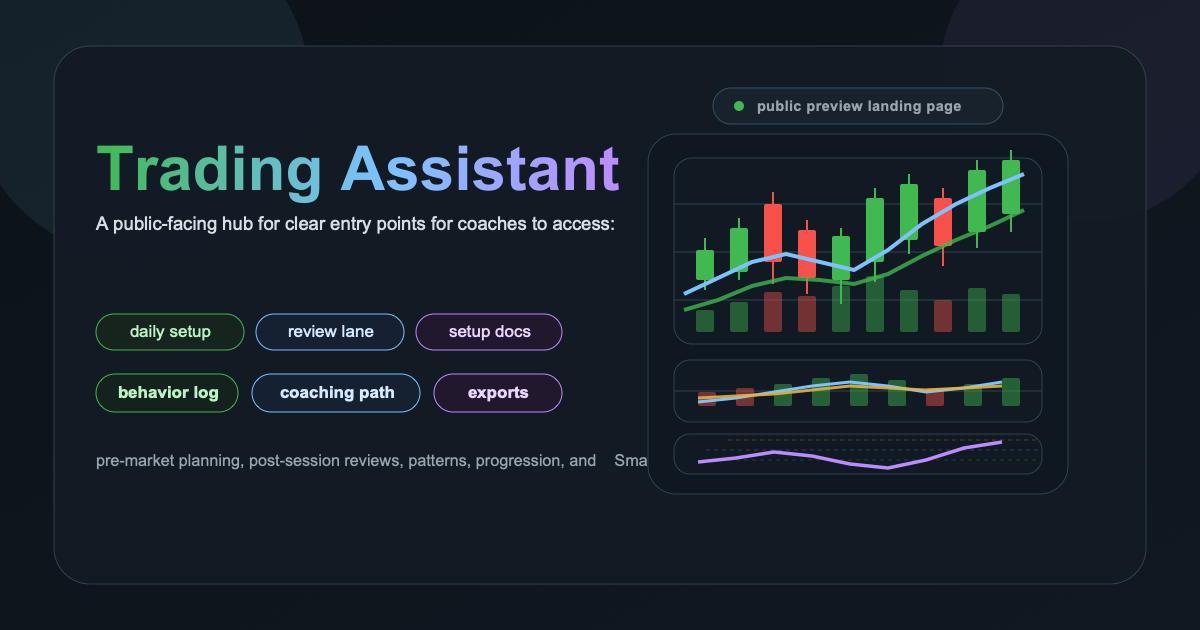
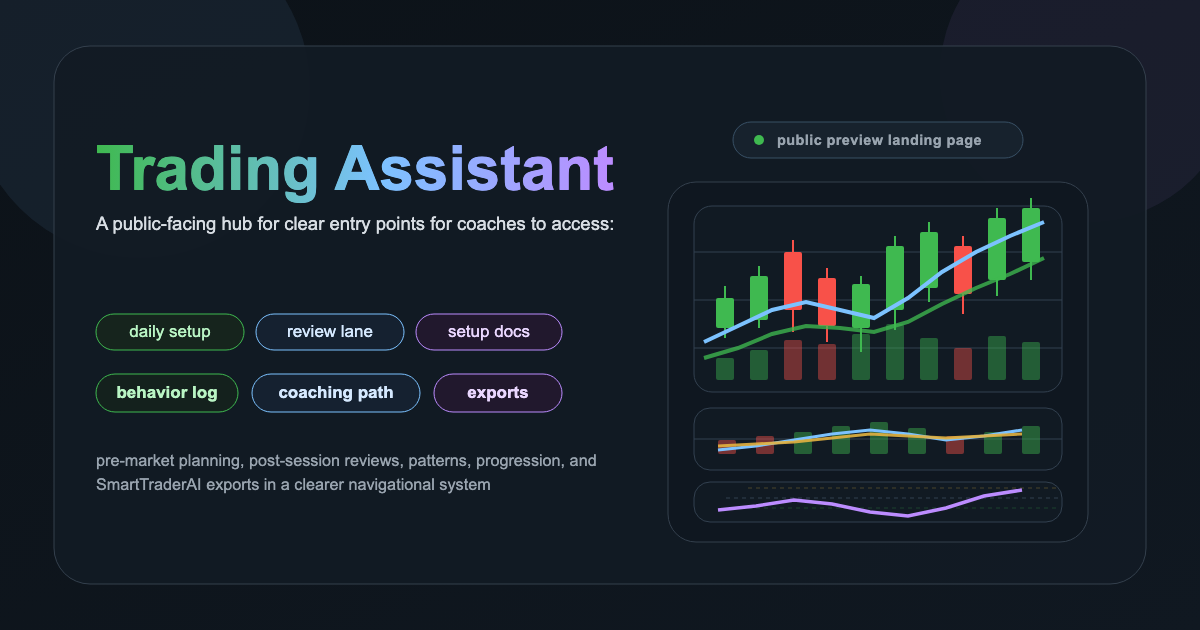
Release verified Wave 48-50 package

diff --git a/index.html b/index.html
@@ -729,12 +729,12 @@
           <span class="path-chip">smarttrader-ai/reviews/pattern_tracker.md</span>
         </a>
 
-        <a class="action-card" href="https://github.com/drasticstatic/trading-assistant-public-preview/tree/main/data/inevitrade%20progression" target="_blank" rel="noreferrer">
+        <a class="action-card" href="https://github.com/drasticstatic/trading-assistant-public-preview/tree/main/data/progression/inevitrade" target="_blank" rel="noreferrer">
           <div class="action-topline"><span>Coaching path</span><span>🎓</span></div>
           <span class="action-icon" aria-hidden="true">📘</span>
           <p class="action-title">Inevitrade Progression</p>
           <p class="action-desc">Coaching progression notes and public references.</p>
-          <span class="path-chip">data/inevitrade progression/</span>
+          <span class="path-chip">data/progression/inevitrade/</span>
         </a>
 
         <a class="action-card" href="https://github.com/drasticstatic/trading-assistant-public-preview/tree/main/setup" target="_blank" rel="noreferrer">
@@ -797,7 +797,7 @@
           <div class="tree-indent3"><a class="tree-leaf" href="https://github.com/drasticstatic/trading-assistant-public-preview/tree/main/smarttrader-ai/exports/2026/03-Mar" target="_blank" rel="noreferrer">03-Mar/</a></div>
           <div><a class="tree-dir" href="https://github.com/drasticstatic/trading-assistant-public-preview/tree/main/data" target="_blank" rel="noreferrer">data/</a> <span class="tree-note">— Public references, screenshots, and progression notes.</span></div>
           <div class="tree-indent"><a class="tree-leaf" href="https://github.com/drasticstatic/trading-assistant-public-preview/tree/main/data/screenshots" target="_blank" rel="noreferrer">screenshots/</a></div>
-          <div class="tree-indent"><a class="tree-leaf" href="https://github.com/drasticstatic/trading-assistant-public-preview/tree/main/data/inevitrade%20progression" target="_blank" rel="noreferrer">inevitrade progression/</a></div>
+          <div class="tree-indent"><a class="tree-leaf" href="https://github.com/drasticstatic/trading-assistant-public-preview/tree/main/data/progression/inevitrade" target="_blank" rel="noreferrer">progression/inevitrade/</a></div>
           <div class="tree-indent"><a class="tree-leaf" href="https://github.com/drasticstatic/trading-assistant-public-preview/tree/main/data/imports" target="_blank" rel="noreferrer">imports/</a></div>
           <div><a class="tree-dir" href="https://github.com/drasticstatic/trading-assistant-public-preview/tree/main/setup" target="_blank" rel="noreferrer">setup/</a> <span class="tree-note">— Public system documentation.</span></div>
           <div class="tree-indent"><a class="tree-leaf" href="https://github.com/drasticstatic/trading-assistant-public-preview/blob/main/setup/system-overview.md" target="_blank" rel="noreferrer">system-overview.md</a></div>

diff --git a/404.html b/404.html
@@ -997,12 +997,12 @@
           </div>
         </a>
 
-        <a class="action-card recovery-priority" href="https://github.com/drasticstatic/trading-assistant-public-preview/tree/main/data/inevitrade%20progression" target="_blank" rel="noreferrer">
+        <a class="action-card recovery-priority" href="https://github.com/drasticstatic/trading-assistant-public-preview/tree/main/data/progression/inevitrade" target="_blank" rel="noreferrer">
           <span class="action-icon" aria-hidden="true">🎓</span>
           <div class="action-content">
             <p class="action-title">Inevitrade Progression</p>
             <p class="action-desc">Coaching progression notes and supporting public reference material.</p>
-            <span class="path-chip">data/inevitrade progression/</span>
+            <span class="path-chip">data/progression/inevitrade/</span>
           </div>
         </a>
 
@@ -1043,7 +1043,7 @@
 
         <div><a class="tree-dir" href="https://github.com/drasticstatic/trading-assistant-public-preview/tree/main/data" target="_blank" rel="noreferrer">data/</a> <span class="tree-note">— Public datasets, screenshots, and progression references.</span></div>
         <div class="tree-indent"><a class="tree-leaf" href="https://github.com/drasticstatic/trading-assistant-public-preview/tree/main/data/screenshots" target="_blank" rel="noreferrer">screenshots/</a></div>
-        <div class="tree-indent"><a class="tree-leaf" href="https://github.com/drasticstatic/trading-assistant-public-preview/tree/main/data/inevitrade%20progression" target="_blank" rel="noreferrer">inevitrade progression/</a></div>
+        <div class="tree-indent"><a class="tree-leaf" href="https://github.com/drasticstatic/trading-assistant-public-preview/tree/main/data/progression/inevitrade" target="_blank" rel="noreferrer">progression/inevitrade/</a></div>
         <div class="tree-indent"><a class="tree-leaf" href="https://github.com/drasticstatic/trading-assistant-public-preview/tree/main/data/imports" target="_blank" rel="noreferrer">imports/</a></div>
 
         <div><a class="tree-dir" href="https://github.com/drasticstatic/trading-assistant-public-preview/tree/main/setup" target="_blank" rel="noreferrer">setup/</a> <span class="tree-note">— Public-facing system documentation</span></div>

diff --git a/404_legacy.html b/404_legacy.html
@@ -447,7 +447,7 @@
       <div class="tree-indent3"><a href="https://github.com/drasticstatic/trading-assistant-public-preview/tree/main/smarttrader-ai/exports/2026/03-Mar" target="_blank">03-Mar/</a> &nbsp;<span style="color:var(--subtle)">— Mar daily reviews</span></div>
       <div><a class="tree-dir" href="https://github.com/drasticstatic/trading-assistant-public-preview/tree/main/data" target="_blank">data/</a></div>
       <div class="tree-indent"><a href="https://github.com/drasticstatic/trading-assistant-public-preview/tree/main/data/screenshots" target="_blank">screenshots/</a> &nbsp;<span style="color:var(--subtle)">— all chart screenshots</span></div>
-      <div class="tree-indent"><a href="https://github.com/drasticstatic/trading-assistant-public-preview/tree/main/data/inevitrade%20progression" target="_blank">inevitrade progression/</a> &nbsp;<span style="color:var(--subtle)">— coaching progression notes</span></div>
+      <div class="tree-indent"><a href="https://github.com/drasticstatic/trading-assistant-public-preview/tree/main/data/progression/inevitrade" target="_blank">progression/inevitrade/</a> &nbsp;<span style="color:var(--subtle)">— coaching progression notes</span></div>
       <div class="tree-indent"><a href="https://github.com/drasticstatic/trading-assistant-public-preview/tree/main/data/exports" target="_blank">exports/</a> &nbsp;<span style="color:var(--subtle)">— TradeZella + Tradovate CSVs</span></div>
       <div><a class="tree-dir" href="https://github.com/drasticstatic/trading-assistant-public-preview/tree/main/setup" target="_blank">setup/</a></div>
       <div class="tree-indent"><a href="https://github.com/drasticstatic/trading-assistant-public-preview/blob/main/setup/system-overview.md" target="_blank">system-overview.md</a> &nbsp;<span style="color:var(--subtle)">— full system architecture</span></div>

diff --git a/setup/AugmentArchitecture.html b/setup/AugmentArchitecture.html
@@ -17,7 +17,7 @@
   <meta property="og:image:secure_url" content="https://drasticstatic.github.io/trading-assistant-public-preview/setup/aug-arch-preview.png?v=20260308-embed2">
   <meta property="og:image:type" content="image/png">
   <meta property="og:image:width" content="1200">
-  <meta property="og:image:height" content="720">
+  <meta property="og:image:height" content="630">
   <meta property="og:image:alt" content="Augment Architecture field guide preview with centered title lines, four surface cards, and a blue-green-purple divider accent.">
   <meta name="twitter:card" content="summary_large_image">
   <meta name="twitter:title" content="Augment Architecture — Field Guide, Not a Mystery Box">

diff --git a/data/progression/inevitrade/inner-circle-workbook.md b/data/progression/inevitrade/inner-circle-workbook.md
@@ -1,0 +1,235 @@
+# 📘 Inevitrade Inner Circle Bootcamp Workbook
+### Christopher Wilson | Cohort Feb 2026
+*Living document — updated as course progresses*
+
+---
+
+## 📋 Pre-Bootcamp Prerequisites
+
+- [x] Watch ALL lessons inside the Inner Circle Whop
+- [x] Download & share Readiness Progression Tracker
+- [x] Choose journaling tool (Readiness Progression Notion + TradeZella)
+- [x] Download & add ALL Premium Indicators via Whop
+
+---
+
+# 🗓 WEEK 1 — Setup, Market Fit & Personalization
+
+## 📖 Class 1A — Onboarding & Direction
+
+**Pre-Class Checklist:**
+- [x] TradingView (Essential or greater)
+- [x] Discord ready
+- [x] Readiness Progression Journal created & shared
+- [x] Excel tools from course downloaded
+
+**Objectives:**
+- Understand the 4-week journey
+- Clarify personal trading direction
+- Choose the right market (time, capital, personality)
+- Set income goals & expectations
+- Verify tools and access
+
+### ✏ Check-on-Learning
+
+> **What market fits your lifestyle best?**
+> 👉 Futures & crypto
+
+> **What is your biggest obstacle in becoming consistent?**
+> 👉 Fear of losing more
+
+> **What is your realistic income goal for the next 6–12 months?**
+> 👉 $10K / month
+
+---
+
+## 📖 Class 1B — Mindset & Performance Readiness
+
+**Objectives:**
+- Identify emotional tendencies that sabotage trading
+- Build pre-trading routines
+- Develop recovery mindset
+
+### ✏ Check-on-Learning
+
+> **What emotions sabotage your trading?**
+> 👉 FOMO & fear of loss
+
+> **What mindset concept hit hardest?**
+> 👉 Trading success has less to do with my skill and more to do with my recovery
+
+> **What will you change about your pre-trading routine?**
+> 👉 Work to forgive myself and let go of the past
+
+> **What concept will you be most susceptible to?**
+> 👉 Fear of loss — moving my SL to breathe mid-trade
+
+---
+
+## 📖 Class 1C — Crypto vs Futures Market Principles
+
+### ✏ Check-on-Learning
+
+> **What market are you currently leaning toward?**
+> 👉 Futures (MNQ/MES) + Crypto (SOL/BTC)
+
+> **What sizing or contract rules confused you?**
+> 👉 Managing margin and leverage risk appropriately
+
+---
+
+# 🗓 WEEK 2 — Market Principles, Models & Confluences
+
+## 📖 Class 2A — Core Trading Models (SMOG)
+
+**Objectives:**
+- Overview of Craig's SMOG strategy
+- Live examples
+- Building trade checklist for execution clarity
+
+### ✏ Check-on-Learning
+
+> **What are 3 pros & cons of trading SMOG?**
+> 👉 *(in progress)*
+
+---
+
+## 📖 Class 2B — Core Trading Models (TCL)
+
+**Objectives:**
+- Deep dive into TCL (Trend Continuation Liquidity)
+- Live examples
+- Adding to trade checklist
+
+### ✏ Check-on-Learning
+
+> **What part of the trade model makes the most sense to you?**
+> 👉 *(in progress)*
+
+---
+
+## 📖 Class 2C — Confluences & Advanced Student Edges
+
+**Objectives:**
+- Learn ALL confluences
+- Learn MTFA SOP & how confluences work with each model
+- Learn from advanced students
+
+### ✏ Check-on-Learning
+
+> **What is the strongest confluence you understand so far?**
+> 👉 *(in progress)*
+>
+> *(For next class: choose a market, pick a model, find 3+ confluences observationally)*
+
+---
+
+# 🗓 WEEK 3 — Journaling, Data Edge, Scaling Plan
+
+## 📖 Class 3A — Journaling & Data Collection
+
+**Pre-Class Checklist:**
+- [ ] Last week's trades journaled in Readiness Progression
+
+### ✏ Check-on-Learning
+
+> **What mistake repeated most last week?**
+> 👉 *(to be filled)*
+
+---
+
+## 📖 Class 3B — Backtesting & Personal Data Edge
+
+**Pre-Class Checklist:**
+- [ ] Strategy chosen
+- [ ] Optional: historical trades ready
+
+### ✏ Check-on-Learning
+
+> **What data point matters most for your edge?**
+> 👉 *(to be filled)*
+
+---
+
+# 🗓 WEEK 4 — Execution, Investing, Continuity
+
+## 📖 Class 4A — Live Trading & Execution Workflow
+
+**Pre-Class Checklist:**
+- [ ] Platform open
+- [ ] Execution settings ready
+
+### 📝 Live Execution Notes
+> 👉 *(to be filled)*
+
+### 📝 Management Notes
+> 👉 *(to be filled)*
+
+### ✏ Check-on-Learning
+
+> **What execution mistake are you most prone to?**
+> 👉 *(to be filled)*
+
+---
+
+## 📖 Class 4B — Investing & Long-Term Wealth
+
+**Pre-Class Checklist:**
+- [ ] Prepare investing questions
+- [ ] Know your goals
+
+**Topics:** Crypto · Equities · Cash-flow assets
+
+### 📝 Investing Notes
+> 👉 *(to be filled)*
+
+### 💰 Account Checklist
+- [ ] Acorns
+- [ ] Schwab
+- [ ] Roth IRA
+- [ ] SEP IRA
+
+### ✏ Check-on-Learning
+
+> **What investing path do you want to start with first?**
+> 👉 *(to be filled)*
+
+---
+
+## 📖 Class 4C — Personal Review & Next Steps
+
+**Pre-Class Checklist:**
+- [ ] 90-day roadmap drafted
+- [ ] 1-on-1 call booked
+
+### 📝 90-Day Roadmap
+> 👉 *(to be filled)*
+
+### 📝 Personal Growth Plan
+> 👉 *(to be filled)*
+
+### 📝 Continuation Plan
+> Live trading · Audits · Mentorship
+> 👉 *(to be filled)*
+
+### 🎯 Final Reflections
+> 👉 *(to be filled)*
+
+---
+
+*📌 This is a living document maintained in the [trading-assistant public repo](https://github.com/drasticstatic/trading-assistant).*
+*Source: Inevitrade Inner Circle Bootcamp | Craig & Team | Feb 2026 Cohort*
+
+---
+
+## 📖 Class 3C — Scaling Plan Implementation (Paladin Protocol)
+
+**Pre-Class Checklist:**
+- [ ] Know your risk tolerance
+- [ ] Understand your prop firm rules
+
+### ✏ Check-on-Learning
+
+> **When should you size up?**
+> 👉 *(to be filled)*
+

diff --git a/README.md b/README.md
@@ -96,7 +96,9 @@ The most useful public paths live under `smarttrader-ai/analysis`, `smarttrader-
 │   │   └── 2026/
 │   │       ├── 02-Feb/          # TradeZella + Tradovate CSV imports
 │   │       └── 03-Mar/
-│   ├── inevitrade progression/  # Coaching progression notes + public reference material
+│   ├── progression/
+│   │   ├── SmartTradingBlueprint/ # STB progression workspace (currently empty/tracked)
+│   │   └── inevitrade/            # Coaching progression notes + public reference material
 │   └── screenshots/             # Trade screenshots & annotated charts for session review
 ├── logs/                        # session logs
 ├── setup/
